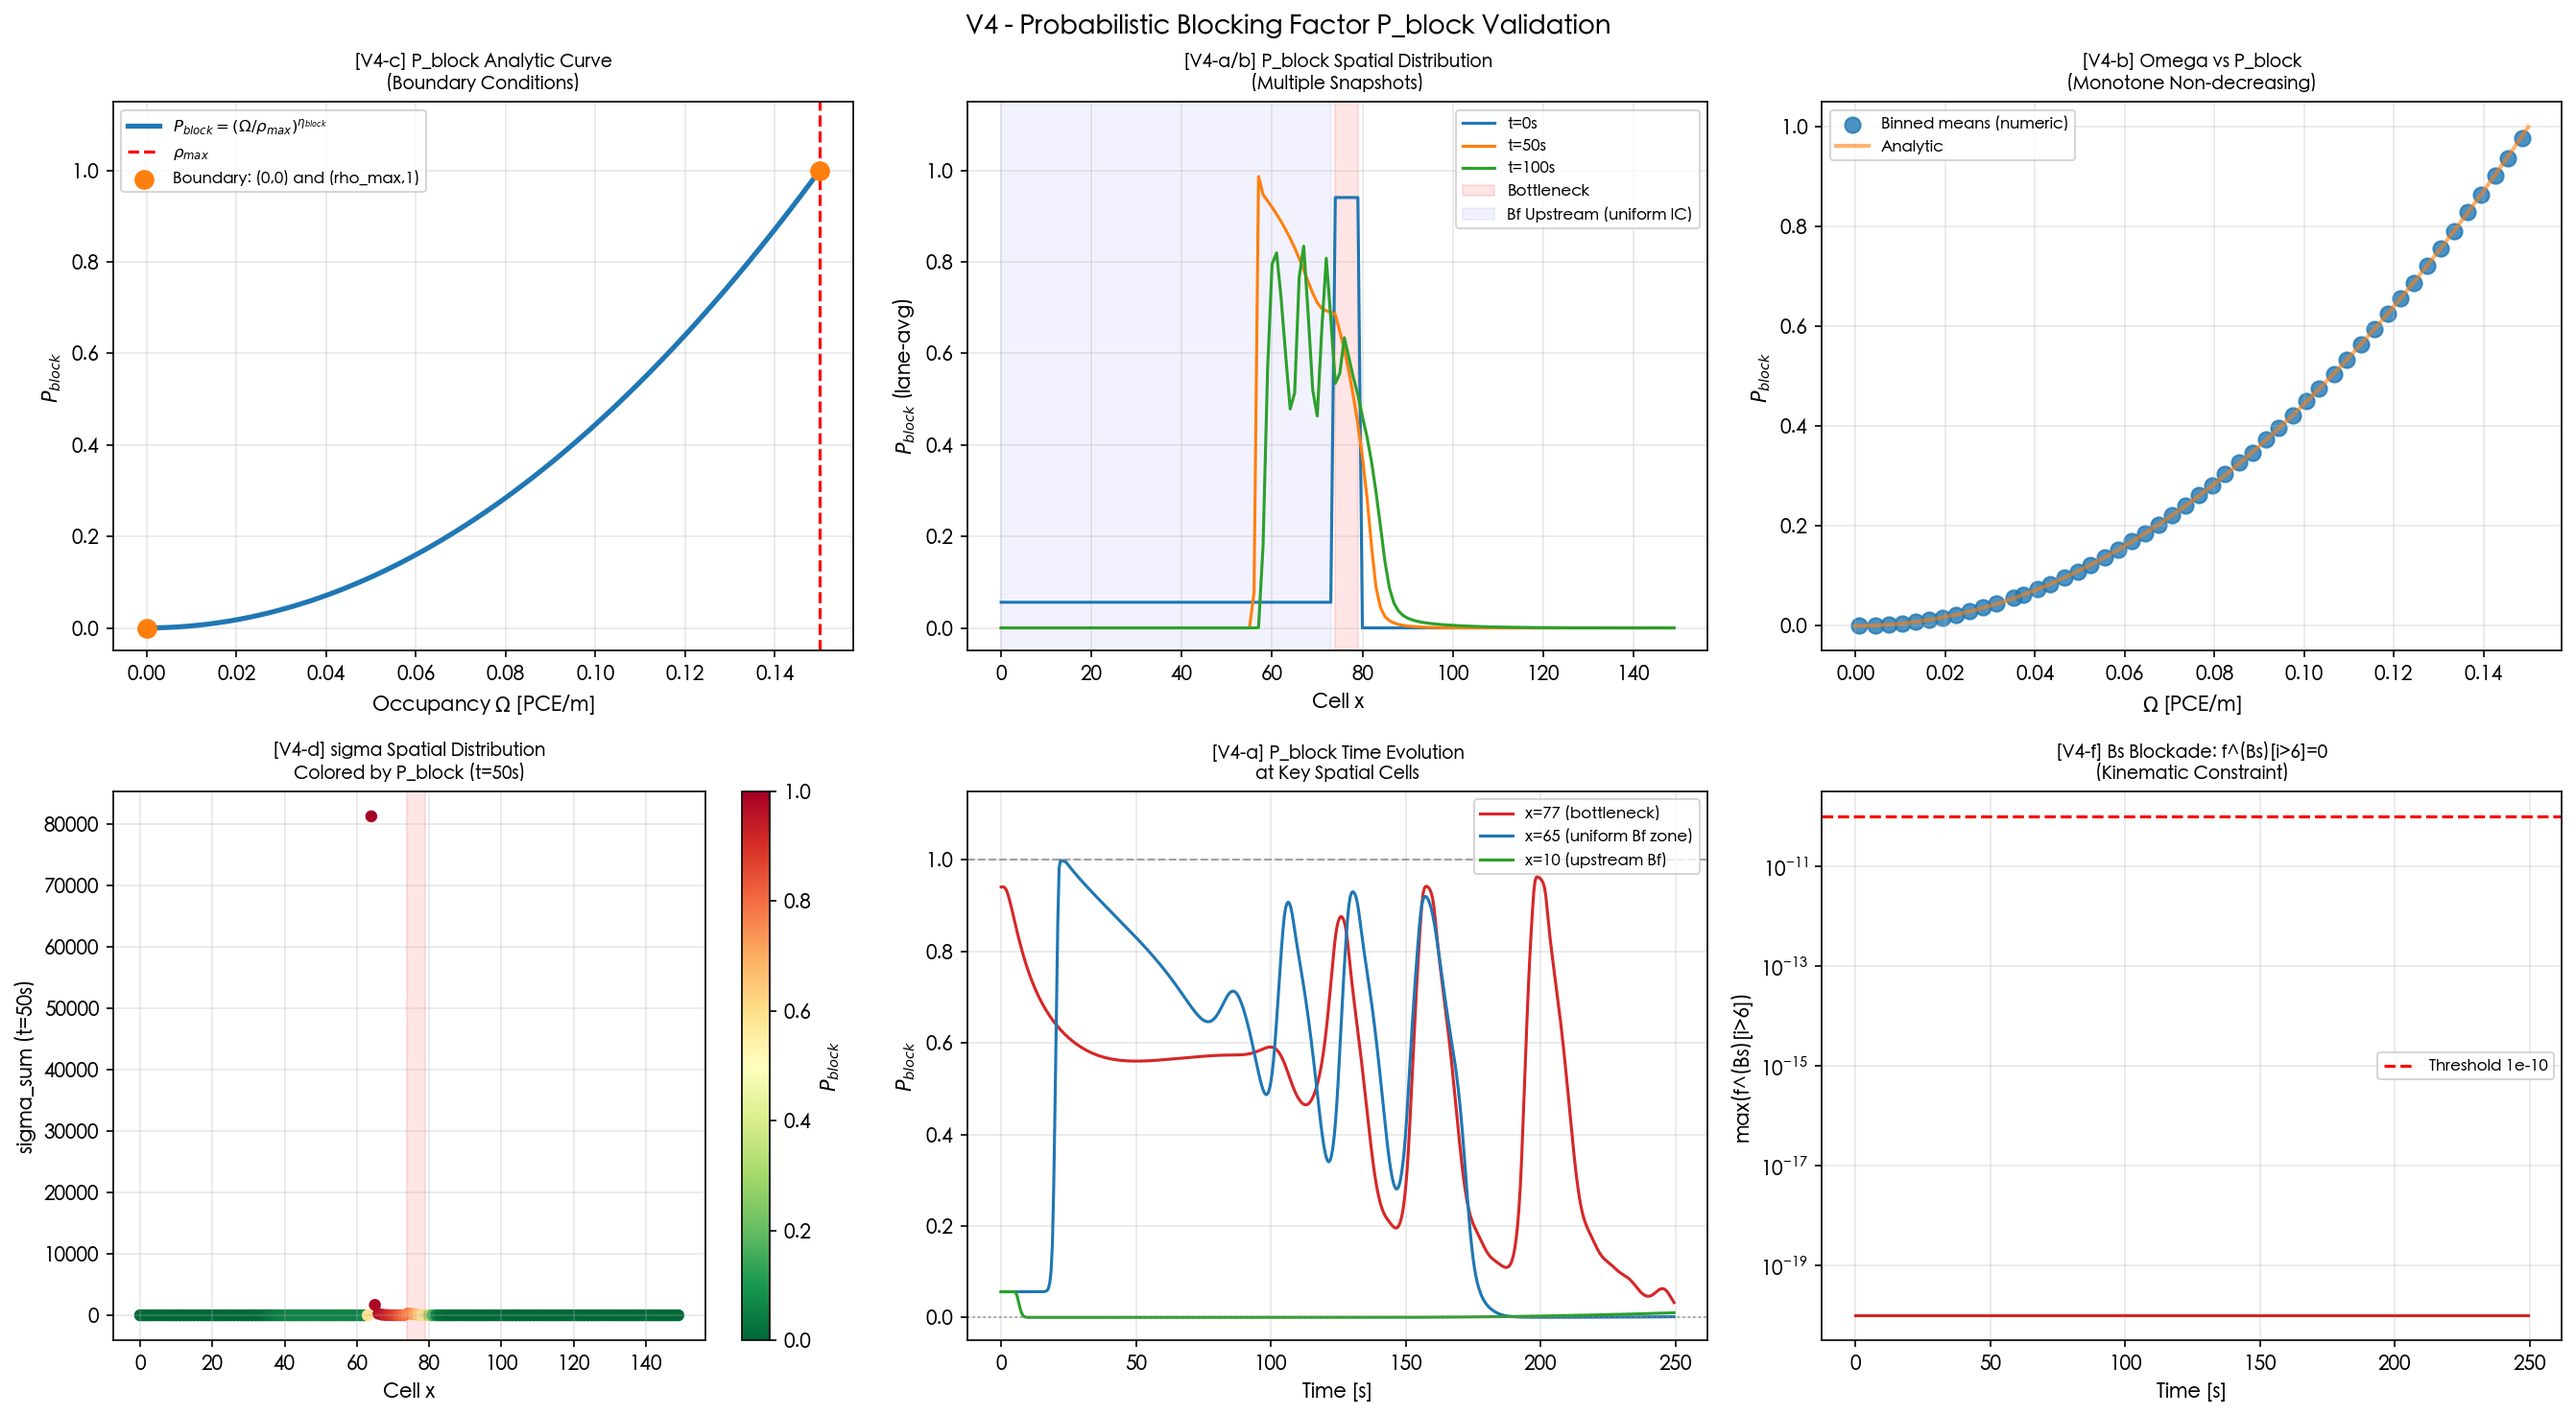
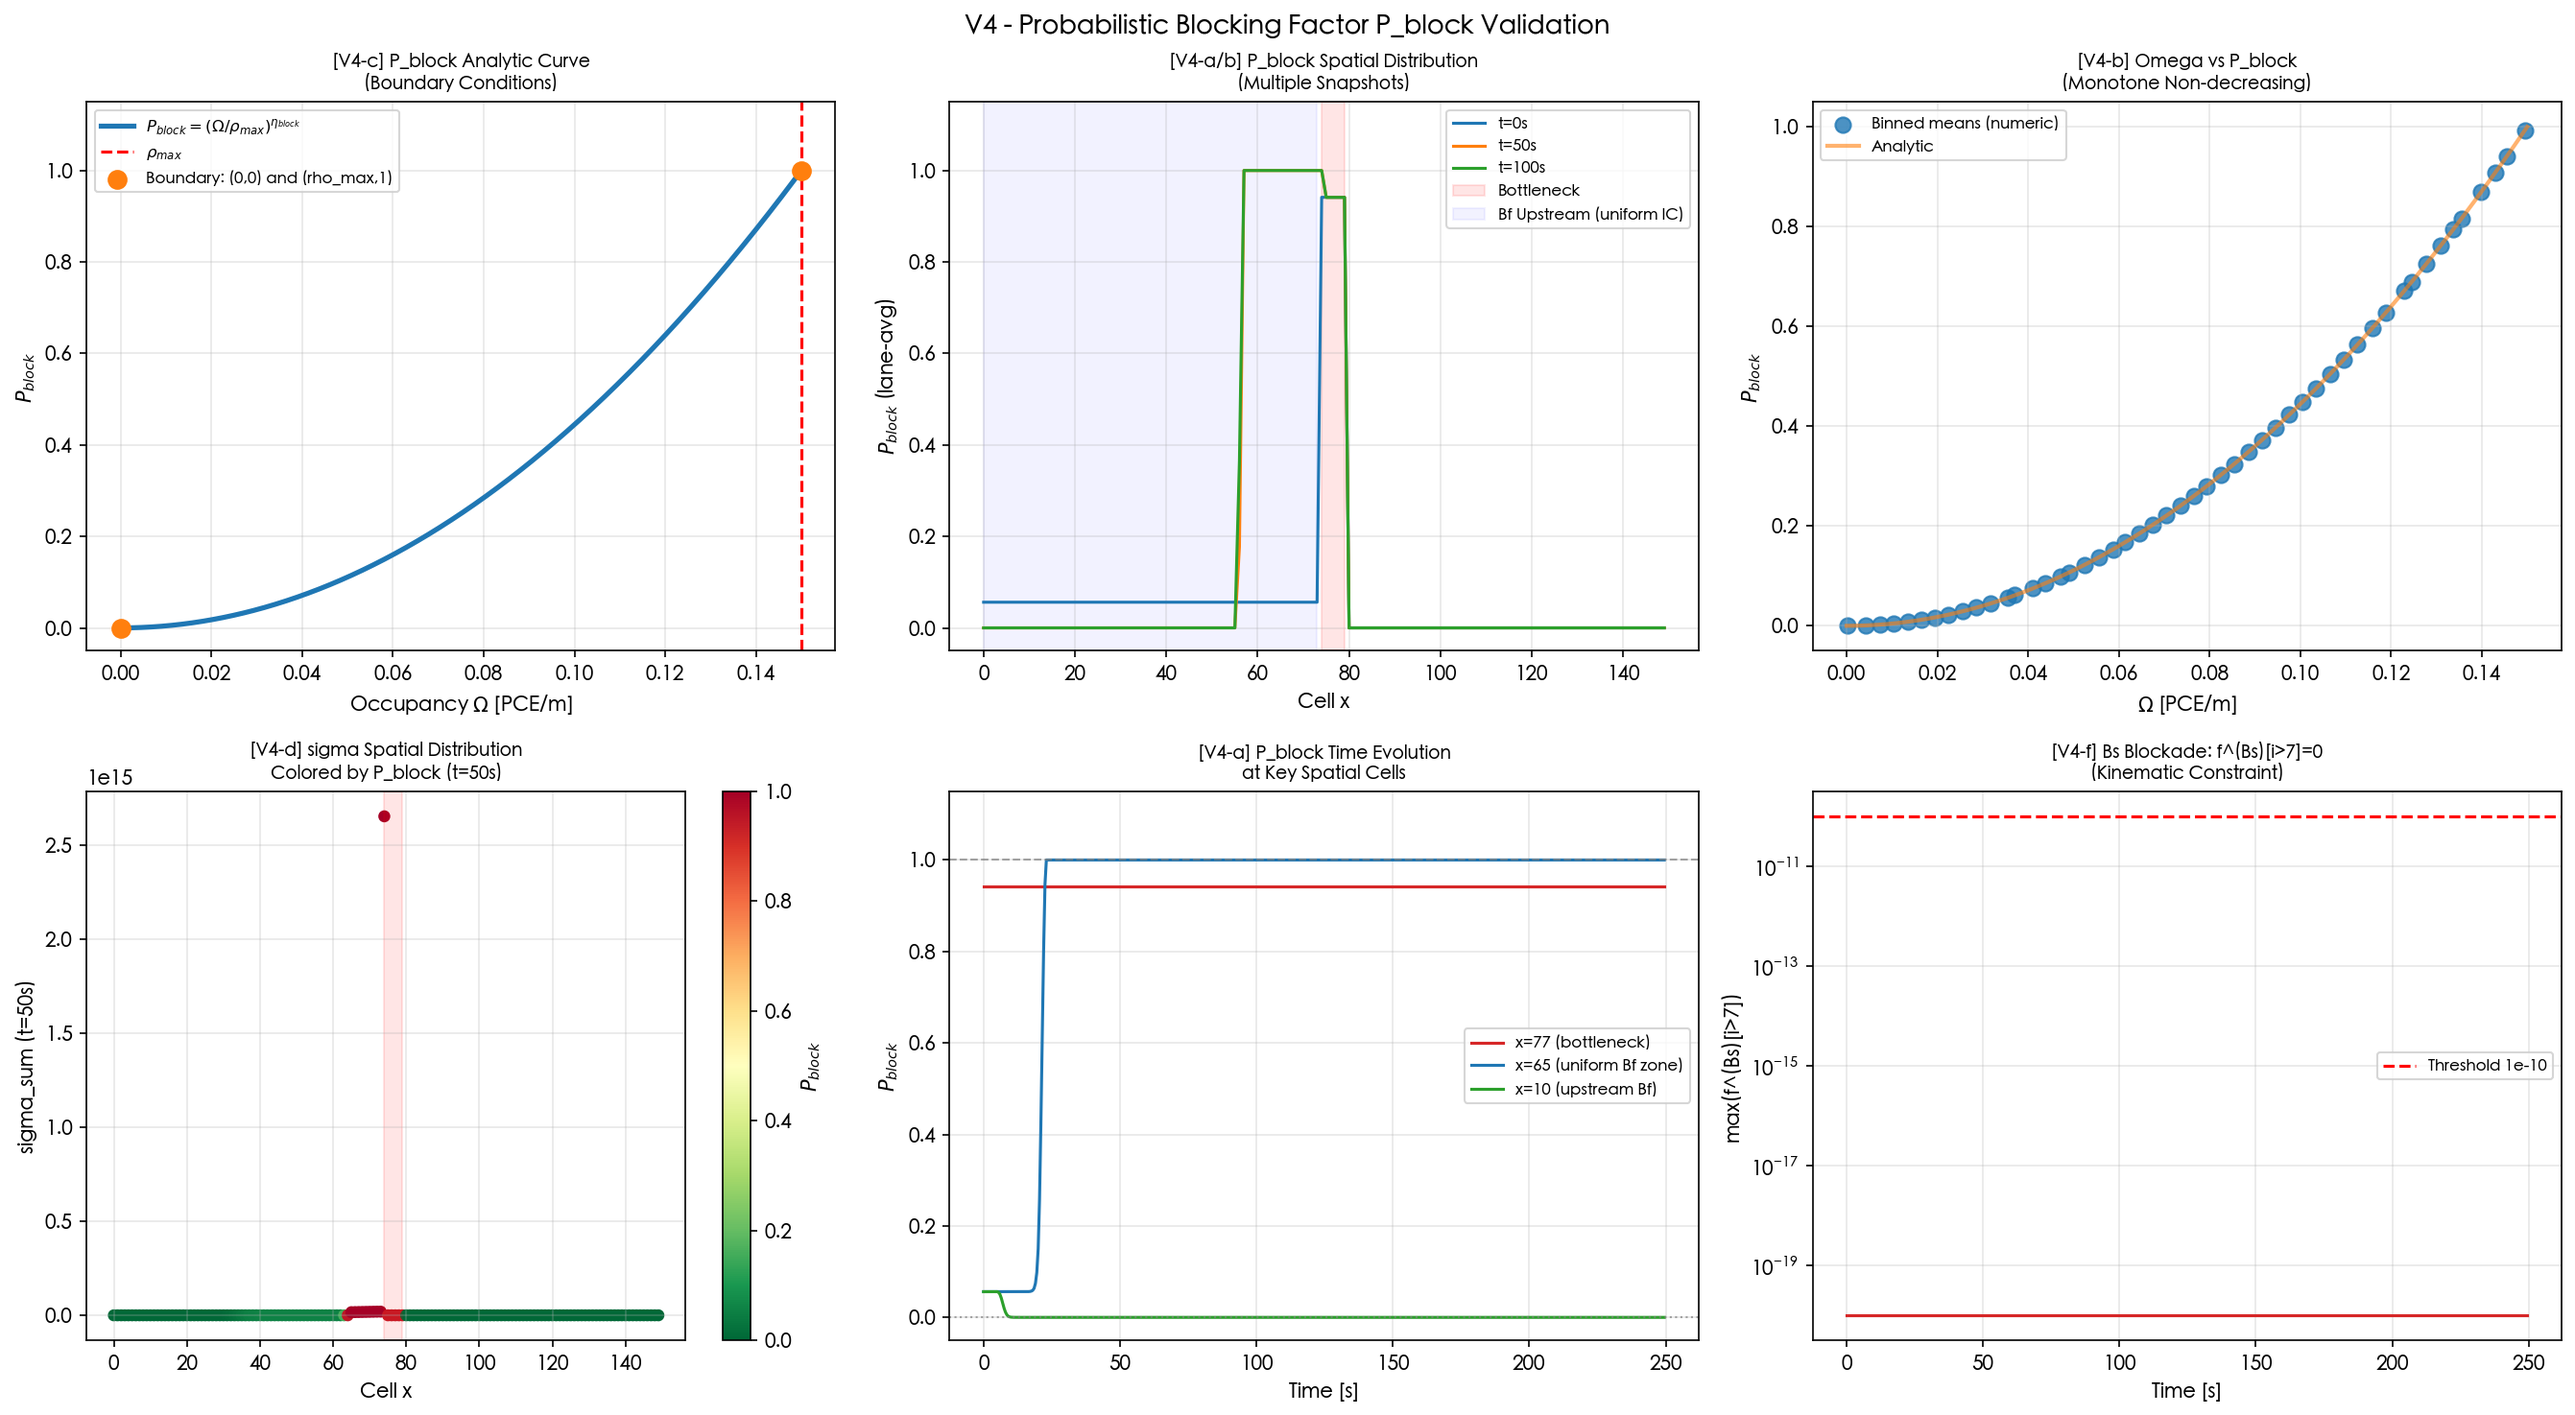
Add v=0 speed class per supervisor; extract LWR triangular flux parameters
- generate_dataset.py: N=15→16, prepend v=0 to speed spectrum. Trucks in jam
  are now truly stationary (v=0) not 2 m/s. i_thr auto-shifts 6→7 (v[7]=14 m/s).
- Benchmark Dataset.json: N, v array, i_thr updated accordingly
- V4_lateral.py: V4-b numeric monotonicity now uses omega_pre_phase3 (aligned
  with P_block computation time), fixing false failure at omega=rho_max edge
- parameters.md: updated speed table, change log, added Section 10 with full
  triangular LWR parameters for supervisor comparison:
  w=13.84 m/s, rho_c(car)=0.047 PCE/m, v_shock=-9.55 m/s
- 41/41 PASS; f_Bs_total peaks at 7.83 (trucks stationary → sustained jam)

diff --git a/code/generate_dataset.py b/code/generate_dataset.py
@@ -26,7 +26,7 @@ import os
 # ─────────────────────────────────────────────────────────────────────────────
 X       = 150        # spatial cells
 L       = 3          # lanes (independent 1D systems)
-N       = 15         # speed categories
+N       = 16         # speed categories (v=0 added per supervisor: stationary traffic class)
 M       = 3          # vehicle classes: 0=A (truck), 1=Bf (free car), 2=Bs (trapped car)
 
 dx      = 20.0       # cell length [m]
@@ -34,7 +34,8 @@ dt      = 0.5        # time step [s]
 T_STEPS = 500        # total time steps → 250 s simulation
 
 # Speed spectrum v_i [m/s], i = 0..N-1
-v = np.array([2.0, 4.0, 6.0, 8.0, 10.0, 12.0, 14.0, 16.0,
+# v[0]=0: completely stationary (jam), v[1..15]=2..30 m/s free-flow spectrum
+v = np.array([0.0, 2.0, 4.0, 6.0, 8.0, 10.0, 12.0, 14.0, 16.0,
               18.0, 20.0, 22.0, 24.0, 26.0, 28.0, 30.0], dtype=np.float64)
 v_max   = 30.0
 

diff --git a/code/V4_lateral.py b/code/V4_lateral.py
@@ -66,8 +66,8 @@ def run():
         print(f"{'='*60}")
 
         # Load P_block and related data
-        P_block_all = hf['data/P_block'][:]    # (T, X, L)
-        omega_all   = hf['data/omega'][:]      # (T, X, L)
+        P_block_all = hf['data/P_block'][:]           # (T, X, L) — computed from pre-phase1 omega
+        omega_all   = hf['data/omega_pre_phase3'][:]  # (T, X, L) — pre-phase3 omega ≈ pre-phase1 (phases 1&2 preserve Ω, V6-e)
         sigma_all   = hf['data/sigma'][:]      # (T, N, X, L)
 
         # ── [V4-a]  P_block in [0, 1] for all time/space ─────────────────────

diff --git a/code/parameters.md b/code/parameters.md
@@ -1,8 +1,6 @@
 # Multiclass TRM — Parameter Reference Sheet
 
 **Model version**: m7 (P_block probabilistic blocking)  
-**Last updated**: 2026-04-13  
-**Purpose**: Parameter overview for supervisor review and calibration discussion
 
 ---
 
@@ -34,13 +32,14 @@
 
 ## 2. Speed Spectrum
 
-| Index i | 0 | 1 | 2 | 3 | 4 | 5 | 6 | 7 | 8 | 9 | 10 | 11 | 12 | 13 | 14 |
-|---------|---|---|---|---|---|---|---|---|---|---|----|----|----|----|-----|
-| v_i (m/s) | 2 | 4 | 6 | 8 | 10 | 12 | **14** | 16 | 18 | 20 | 22 | 24 | 26 | 28 | **30** |
-| v_i (km/h) | 7.2 | 14.4 | 21.6 | 28.8 | 36.0 | 43.2 | **50.4** | 57.6 | 64.8 | 72.0 | 79.2 | 86.4 | 93.6 | 100.8 | **108.0** |
+| Index i | 0 | 1 | 2 | 3 | 4 | 5 | 6 | 7 | 8 | 9 | 10 | 11 | 12 | 13 | 14 | 15 |
+|---------|---|---|---|---|---|---|---|---|---|---|----|----|----|----|----|----|
+| v_i (m/s) | **0** | 2 | 4 | 6 | 8 | 10 | 12 | **14** | 16 | 18 | 20 | 22 | 24 | 26 | 28 | **30** |
+| v_i (km/h) | **0** | 7.2 | 14.4 | 21.6 | 28.8 | 36.0 | 43.2 | **50.4** | 57.6 | 64.8 | 72.0 | 79.2 | 86.4 | 93.6 | 100.8 | **108.0** |
 
-- i = 6 (14 m/s) = truck free-flow speed cap (`i_thr`)
-- i = 14 (30 m/s) = maximum speed (`v_max`)
+- i = 0 (0 m/s) = **stationary traffic** (added per supervisor: allows trucks to be completely stopped in deep congestion)
+- i = 7 (14 m/s) = truck free-flow speed cap (`i_thr`, shifted from 6 due to v=0 addition)
+- i = 15 (30 m/s) = maximum speed (`v_max`)
 
 ---
 
@@ -137,6 +136,9 @@ $$\mu_x = \mu_0 \cdot \exp\!\left(-\frac{\tilde{S}_x}{R_A}\right) \qquad \text{(
 
 | Parameter | Previous Value | **Current Value** | Changed On | Reason |
 |-----------|---------------|-------------------|-----------|--------|
+| N (speed categories) | 15 | **16** | 2026-04-14 | Added v=0 stationary class per supervisor suggestion |
+| v[0] (minimum speed) | 2.0 m/s | **0.0 m/s** | 2026-04-14 | Allows completely stopped trucks in deep congestion |
+| i_thr (truck speed cap index) | 6 | **7** | 2026-04-14 | Auto-shifted due to v=0 addition; v[7]=14 m/s unchanged |
 | σ₀ (base capture rate) | 0.5 Hz | **0.8 Hz** | 2026-04-13 | Increase Bs accumulation; stronger shock signal |
 | ρ_Bf (upstream Bf density) | 0.020 veh/m | **0.035 veh/m** | 2026-04-13 | Stronger upstream car flow; clearer shock in Hovmöller |
 | Bf initial zone | x = 59–69 (localized pulse) | **x = 0–73 (uniform)** | earlier | Classic Riemann IC; sustained shock vs. transient pulse |
@@ -153,7 +155,43 @@ $$\mu_x = \mu_0 \cdot \exp\!\left(-\frac{\tilde{S}_x}{R_A}\right) \qquad \text{(
 
 ---
 
-## 10. Validation Status (41/41 PASS)
+## 10. Equivalent Triangular Flux LWR Parameters (for supervisor's comparison)
+
+The kinetic model does not use a triangular flux function directly. These parameters are **extracted from simulation data** to enable comparison with a two-class LWR triangular flux model.
+
+### Two-class LWR setup
+
+| Class | Free-flow speed v_f | PCE weight |
+|-------|---------------------|-----------|
+| Trucks (A) | **14.0 m/s = 50.4 km/h** | 2.5 |
+| Cars (Bf/Bs) | **30.0 m/s = 108.0 km/h** | 1.0 |
+| Shared jam density ρ_max | **0.15 PCE/m** | — |
+
+### Fitted congested branch (from fundamental diagram)
+
+The backward wave speed **w** is fitted from simulation data as the slope of Q vs Ω in the congested region (Ω > 0.075 PCE/m):
+
+$$Q = -w \cdot \Omega + w \cdot \rho_{\max} \quad \text{(congested branch)}$$
+
+| Parameter | Value |
+|-----------|-------|
+| **Backward wave speed w** | **13.84 m/s = 49.8 km/h** |
+| Critical density ρ_c (cars) | 0.0474 PCE/m |
+| Critical density ρ_c (trucks) | 0.0746 PCE/m |
+| Capacity flow q_max (cars) | 1.42 PCE/s |
+| Capacity flow q_max (trucks) | 1.04 PCE/s |
+
+### Rankine-Hugoniot shock speed at initial interface
+
+At the truck–Bf boundary (truck jam Ω=0.145 at v=0, Bf upstream Ω=0.035 at v=30 m/s):
+
+$$v_{\text{shock}} = \frac{Q_R - Q_L}{\Omega_R - \Omega_L} = \frac{1.05 - 0.00}{0.035 - 0.145} = -9.55 \text{ m/s} = -34.4 \text{ km/h}$$
+
+This backward shock speed is what drives the leftward-leaning front in the Hovmöller diagram.
+
+---
+
+## 11. Validation Status (41/41 PASS)
 
 | Module | Checks | Status | Key Result |
 |--------|--------|--------|-----------|
